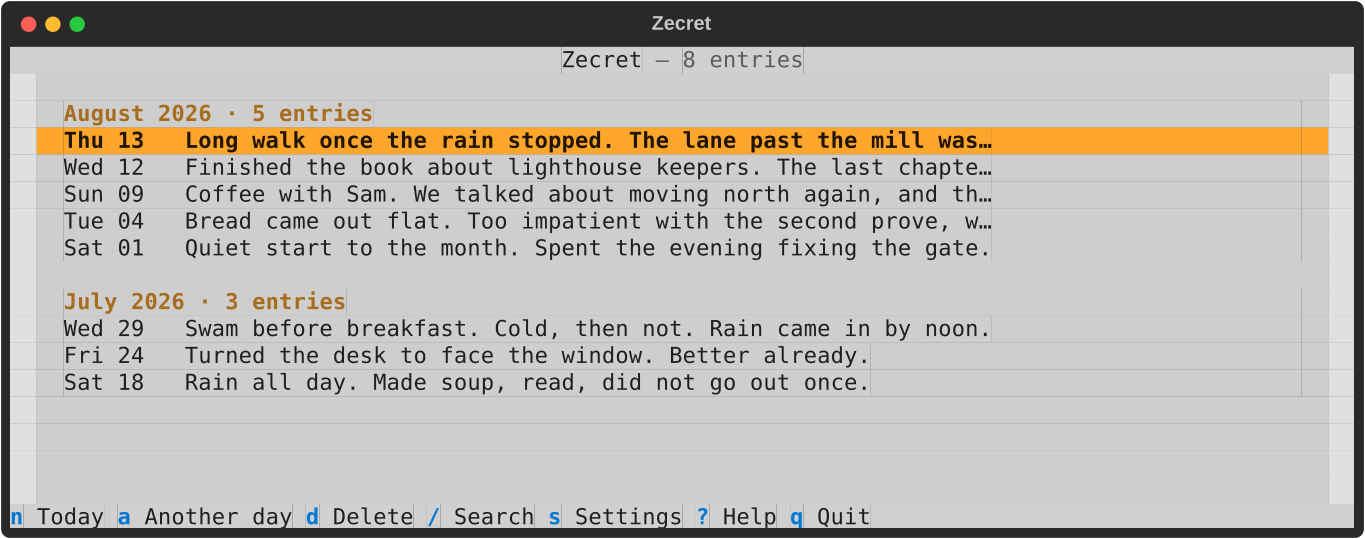
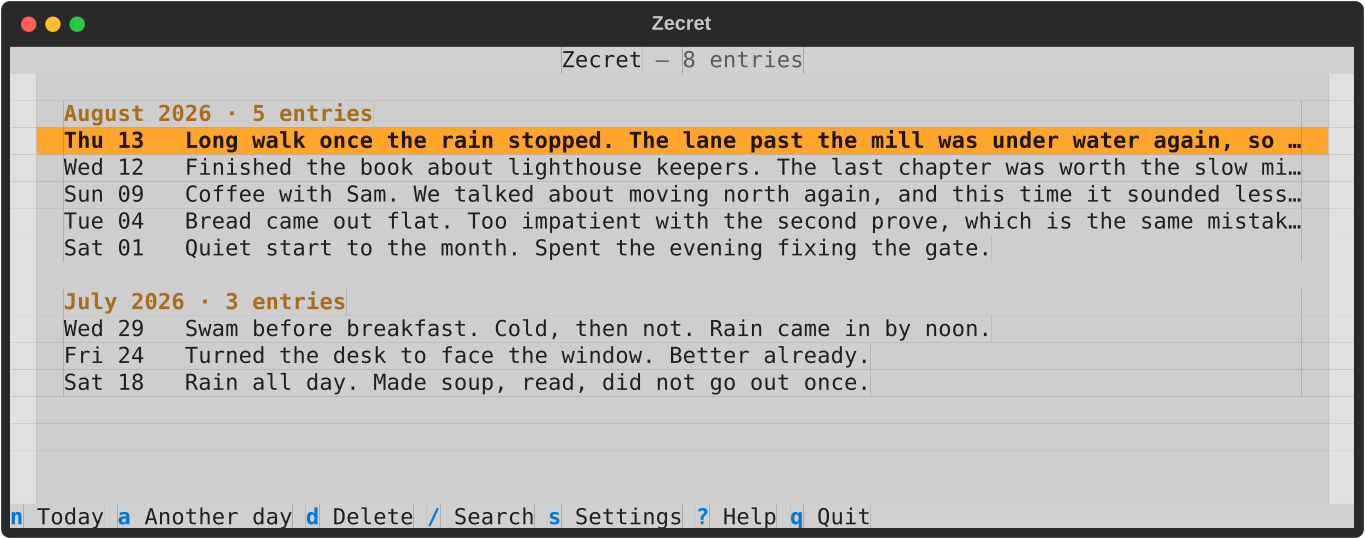
feat: show as much of a day as the window has room for, in the list and in search

Changed region(s): [[0.7077, 0.2375, 0.9538, 0.4453]]

diff --git a/tests/test_entry_list_screen.py b/tests/test_entry_list_screen.py
@@ -17,6 +17,10 @@ Required coverage:
     - That refresh keeps the reader where they were: on the day they had
       highlighted, or -- when that day was the one just deleted -- on the
       next older day, which has moved up into its place.
+    - A row carries the entry's whole first line rather than a fixed slice
+      of it, and is clipped to the window at render time. This is what lets
+      a wide terminal show more of a day without any of it being recomputed
+      when the window is resized.
 """
 
 from __future__ import annotations
@@ -868,3 +872,57 @@ async def test_getting_around_an_empty_diary_does_nothing(diary_path):
             await pilot.pause()
         assert isinstance(app.screen, EntryListScreen)
         assert app.screen.rows == []
+
+
+# --- how much of a day a row shows -----------------------------------------
+
+
+#: Longer than any row was ever given before, and longer than a narrow
+#: terminal can show -- so a row carrying all of it proves the length is no
+#: longer decided here.
+LONG_FIRST_LINE = "The morning was clear and I walked further than I meant to, " * 3
+
+
+async def test_a_row_carries_the_whole_first_line(diary_path):
+    """The row is given the line; the window decides how much of it shows.
+
+    Rows used to be cut to sixty characters whatever the terminal was, so a
+    wide window showed a lot of empty space beside a truncated day.
+    """
+    seed(diary_path, Entry.new(TODAY, f"{LONG_FIRST_LINE}\nand a second line"))
+    app = ZecretApp(diary_path=diary_path)
+    async with app.run_test(size=(60, 20)) as pilot:
+        await unlock(pilot)
+        assert snippets(app) == [LONG_FIRST_LINE.strip()], (
+            "the row should hold the whole line even when the terminal cannot show it"
+        )
+
+
+async def test_a_row_still_stops_at_the_first_line(diary_path):
+    """Wider is not taller: the row is a day, and the rest of the day's
+    writing belongs in the editor."""
+    seed(diary_path, Entry.new(TODAY, "The first line.\nThe second line."))
+    app = ZecretApp(diary_path=diary_path)
+    async with app.run_test(size=(200, 20)) as pilot:
+        await unlock(pilot)
+        assert snippets(app) == ["The first line."]
+
+
+async def test_rows_are_clipped_by_the_window_rather_than_wrapped(diary_path):
+    """The CSS that makes the whole thing work, and the reason no resize
+    handler is needed: the widget trims at render time. A wrapped row would
+    also be two rows tall, which would break the alignment of the list."""
+    seed(diary_path, Entry.new(TODAY, LONG_FIRST_LINE))
+    app = ZecretApp(diary_path=diary_path)
+    async with app.run_test(size=(60, 20)) as pilot:
+        await unlock(pilot)
+        rows = [
+            item.query_one(Label)
+            for item in app.screen.query_one("#entries", ListView).children
+            if not item.has_class(HEADING_CLASS)
+        ]
+        assert rows
+        for label in rows:
+            assert label.styles.text_wrap == "nowrap"
+            assert label.styles.text_overflow == "ellipsis"
+            assert label.size.height == 1, "a day must not become two rows"

diff --git a/src/zecret/screens/base.py b/src/zecret/screens/base.py
@@ -37,8 +37,17 @@ EMPTY_BODY = "(empty)"
 #: happens, and each screen adds what it means for what you were doing.
 DIARY_CHANGED = "The diary changed on disk — another Zecret may have it open."
 
-#: How much of an entry's first line the list shows before trimming.
-SNIPPET_LENGTH = 60
+#: The most of an entry's first line a row will ever carry. Not a display
+#: width: how much of a row is shown is the terminal's business, decided at
+#: render time by `text-overflow: ellipsis` in app.tcss, so a wide window
+#: shows more of the line and a narrow one trims it with no work here and
+#: nothing to recompute when the window changes size.
+#:
+#: This is the cap behind that -- what stops one pasted paragraph with no
+#: newline in it from putting fifty kilobytes into a label that then throws
+#: nearly all of it away. Far past any terminal's width, so it never cuts a
+#: line someone could otherwise have read.
+SNIPPET_CAP = 500
 
 
 def today() -> dt.date:
@@ -83,18 +92,33 @@ def format_day_long(date: dt.date) -> str:
     return f"{date:%A, %d %B %Y}"
 
 
-def body_snippet(body: str, length: int = SNIPPET_LENGTH) -> str:
-    """The entry's first non-blank line, trimmed to `length`.
+def body_snippet(body: str, length: int = SNIPPET_CAP) -> str:
+    """The entry's first non-blank line, capped at `length`.
 
     With no titles, this is what tells one day apart from another in a
-    list -- the diary equivalent of a subject line.
+    list -- the diary equivalent of a subject line. The row is given the
+    whole line and the terminal decides how much of it fits; `length` is a
+    guard against a pathological line, not the width of anything.
+
+    Scanned a line at a time rather than with splitlines(), which copies
+    the entire body to get at its first line. That costs about six
+    microseconds an entry on a long one against a tenth of that here --
+    real, but a rounding error next to the cost of mounting the rows, so
+    this is written the cheap way because there is no reason to write it
+    the expensive way, not because it was ever the slow part.
     """
-    first = next((line.strip() for line in body.splitlines() if line.strip()), "")
-    if not first:
-        return EMPTY_BODY
-    if len(first) <= length:
-        return first
-    return f"{first[: length - 1].rstrip()}…"
+    start = 0
+    while start < len(body):
+        end = body.find("\n", start)
+        if end == -1:
+            end = len(body)
+        first = body[start:end].strip()
+        if first:
+            if len(first) <= length:
+                return first
+            return f"{first[: length - 1].rstrip()}…"
+        start = end + 1
+    return EMPTY_BODY
 
 
 def entry_summary(entry: Entry) -> str:

diff --git a/tools/screenshots.py b/tools/screenshots.py
@@ -68,28 +68,36 @@ THEMES = [("textual-dark", "dark"), ("textual-light", "light")]
 
 #: A fortnight of unremarkable days across two months, so the month
 #: headings and their counts both have something to show.
+#:
+#: A paragraph is one line here, with no hard wrapping inside it. Rows show
+#: as much of the first line as the window holds, so a line broken by hand
+#: at sixty-odd characters would put a row in the shots that stops
+#: mid-sentence with no ellipsis to explain why -- which is what these
+#: looked like when the wrapping was left in. The first day is long enough
+#: to be trimmed at the shot's width, on purpose: one row ending in an
+#: ellipsis shows what the list does with a day that has more to say.
 SAMPLE = [
     (
         dt.date(2026, 8, 13),
-        "Long walk once the rain stopped. The lane past the mill was under\n"
-        "water again, so I went up the hill instead and found an orchard\n"
-        "nobody seems to be picking.\n"
+        "Long walk once the rain stopped. The lane past the mill was under water "
+        "again, so I went up the hill instead and found an orchard nobody seems "
+        "to be picking.\n"
         "\n"
         "Came back the long way. Worth it.",
     ),
     (
         dt.date(2026, 8, 12),
-        "Finished the book about lighthouse keepers. The last chapter was\nworth the slow middle.",
+        "Finished the book about lighthouse keepers. The last chapter was worth the slow middle.",
     ),
     (
         dt.date(2026, 8, 9),
-        "Coffee with Sam. We talked about moving north again, and this time\n"
-        "it sounded less like talking.",
+        "Coffee with Sam. We talked about moving north again, and this time it "
+        "sounded less like talking.",
     ),
     (
         dt.date(2026, 8, 4),
-        "Bread came out flat. Too impatient with the second prove, which is\n"
-        "the same mistake as last time.",
+        "Bread came out flat. Too impatient with the second prove, which is the "
+        "same mistake as last time.",
     ),
     (dt.date(2026, 8, 1), "Quiet start to the month. Spent the evening fixing the gate."),
     (dt.date(2026, 7, 29), "Swam before breakfast. Cold, then not. Rain came in by noon."),

diff --git a/tests/test_search_screen.py b/tests/test_search_screen.py
@@ -8,6 +8,9 @@ Required coverage:
       return, with the cursor still on the day that was opened.
     - Escape returns to the list.
     - Searching never writes anything to disk.
+    - A result carries the entry's whole first line and is clipped to the
+      window, the same as a row of the diary list -- the two sit one key
+      apart and would look mismatched if only one of them grew.
 """
 
 from __future__ import annotations
@@ -326,3 +329,39 @@ async def test_the_highlighted_day_is_none_when_the_cursor_is_off_the_results(st
         screen.results = []
         assert screen.highlighted_date is None
         assert screen.row_for(None) == 0
+
+
+# --- how much of a day a result shows --------------------------------------
+
+
+#: Longer than a narrow terminal can show, so a result carrying all of it
+#: proves the length is not decided when the row is built.
+LONG_FIRST_LINE = "The morning was clear and I walked further than I meant to, " * 3
+
+
+async def test_a_result_carries_the_whole_first_line(diary_path):
+    """Search rows grew with the diary list rather than being left behind:
+    the two are one keypress apart, and a stunted result beside a full row
+    reads as a bug in the one that is shorter."""
+    seed(diary_path, Entry.new(TODAY, f"{LONG_FIRST_LINE}\nand a second line"))
+    app = ZecretApp(diary_path=diary_path)
+    async with app.run_test(size=(60, 20)) as pilot:
+        await unlock(pilot)
+        await open_search(pilot)
+        assert result_snippets(app) == [LONG_FIRST_LINE.strip()]
+
+
+async def test_results_are_clipped_by_the_window_rather_than_wrapped(diary_path):
+    seed(diary_path, Entry.new(TODAY, LONG_FIRST_LINE))
+    app = ZecretApp(diary_path=diary_path)
+    async with app.run_test(size=(60, 20)) as pilot:
+        await unlock(pilot)
+        await open_search(pilot)
+        rows = [
+            item.query_one(Label) for item in app.screen.query_one("#results", ListView).children
+        ]
+        assert rows
+        for label in rows:
+            assert label.styles.text_wrap == "nowrap"
+            assert label.styles.text_overflow == "ellipsis"
+            assert label.size.height == 1, "a day must not become two rows"

diff --git a/tests/test_properties.py b/tests/test_properties.py
@@ -38,7 +38,7 @@ from hypothesis import strategies as st
 
 from zecret.crypto import KEY_SIZE, NONCE_SIZE, KdfParams, ZecretDecryptError, decrypt, encrypt
 from zecret.models import Entry
-from zecret.screens.base import EMPTY_BODY, SNIPPET_LENGTH, body_snippet
+from zecret.screens.base import EMPTY_BODY, SNIPPET_CAP, body_snippet
 from zecret.storage import _load_document, _parse_record
 
 # Zecret stores UTC timestamps and local dates, and a diary may hold any
@@ -249,12 +249,14 @@ def test_the_salt_survives_base64(salt: bytes):
 
 @given(body=bodies, length=st.integers(min_value=2, max_value=200))
 def test_a_snippet_never_exceeds_its_length(body: str, length: int):
-    """It stands in for a title in a fixed-width row, so overshooting the
-    bound would push the layout around."""
+    """The row is trimmed to the window at render time, so this bound is
+    not what the reader sees -- it is the guard that keeps one pasted
+    paragraph with no newline out of a label. Overshooting it would defeat
+    the only thing standing between the list and an unbounded string."""
     assert len(body_snippet(body, length)) <= max(length, len(EMPTY_BODY))
 
 
 @given(body=bodies)
 def test_a_snippet_is_never_blank(body: str):
     """Every row has to say something, or the day looks like a gap."""
-    assert body_snippet(body, SNIPPET_LENGTH).strip()
+    assert body_snippet(body, SNIPPET_CAP).strip()

diff --git a/CLAUDE.md b/CLAUDE.md
@@ -101,6 +101,16 @@ Keep this layering strict:
   mapping and knows nothing about it. Sorting, grouping and wording are the
   screen's business — don't push them down into storage to save the screen
   a `sorted()`.
+- **How wide a row is belongs to the terminal, not to Python.** A list row
+  carries the entry's whole first line and `app.tcss` trims it at render
+  time (`text-wrap: nowrap` + `text-overflow: ellipsis`), so a wide window
+  shows more of a day for free. Never compute the trim from a measured
+  width: that makes the row text depend on the size, which means rebuilding
+  on resize, and `refresh_entries()` is a full clear-and-remount that takes
+  over a second at 1500 entries — on every event of a window drag.
+  `SNIPPET_CAP` in `screens/base.py` is a guard against one pasted
+  paragraph with no newline in it, not a display width; it is far past any
+  terminal, and shortening it back into a width would undo this.
 
 Interface note: `DiaryFile.create_new()` and `DiaryFile.unlock()` return
 `(DiaryFile, key)`, not just the `DiaryFile`. The derived key has to reach

diff --git a/CHANGELOG.md b/CHANGELOG.md
@@ -22,6 +22,12 @@ file matters as much as that does.
 
 ### Changed
 
+- **A wide window now shows more of each day.** Rows in the diary list and
+  in search used to stop after sixty characters however much room there
+  was, leaving most of a wide terminal empty beside a cut-off sentence.
+  They now carry the whole of the entry's first line and show as much of it
+  as fits, trimming with an ellipsis only where the window really runs out.
+  Resizing costs nothing: the trimming happens as the row is drawn.
 - **The help popup is wider, and most of it now fits on screen at once.**
   The keys sit in two columns instead of one long list, which takes the
   page from 47 rows to 30 — on an 80×25 terminal every key of the diary is
